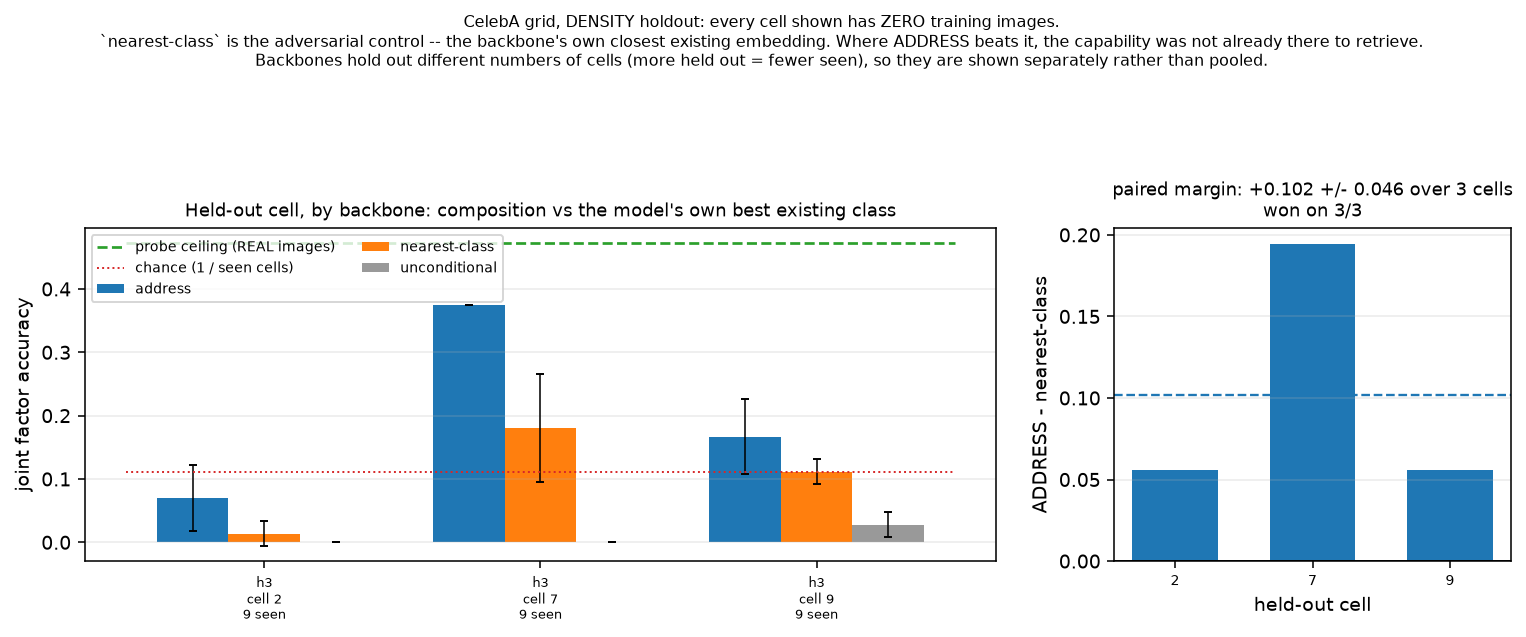
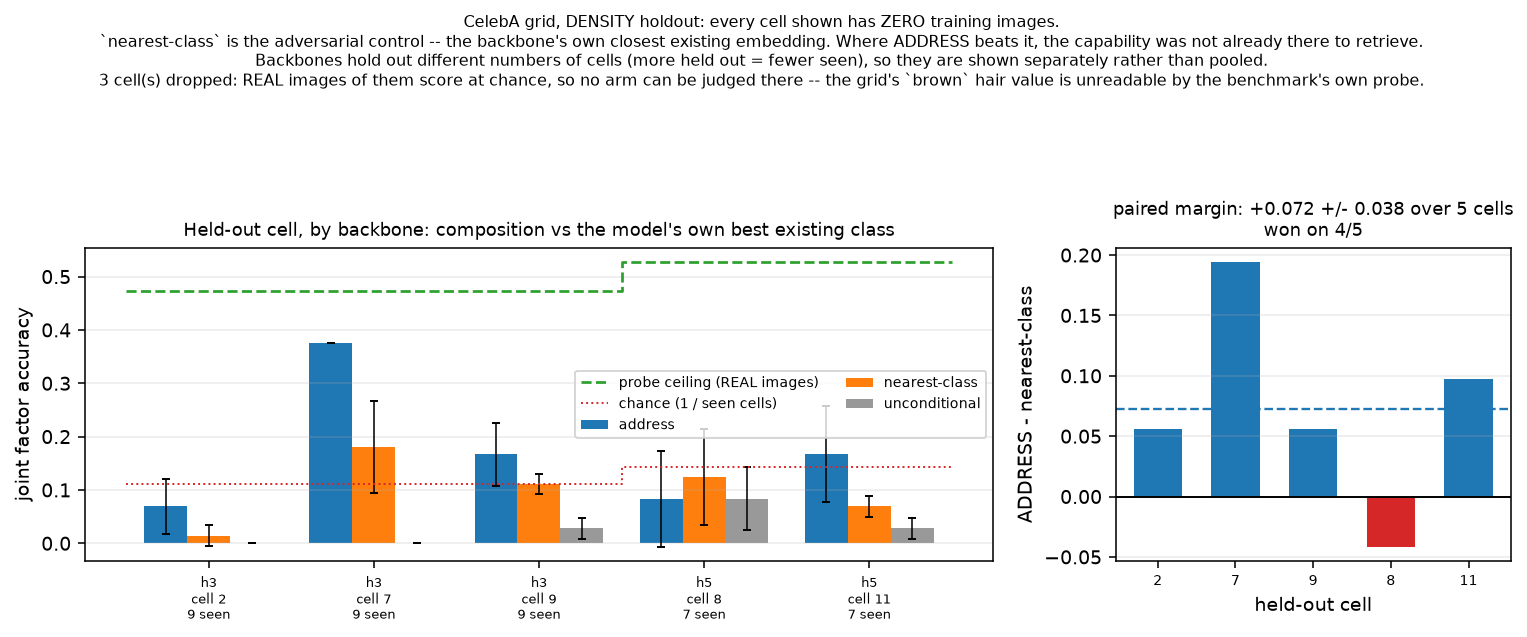
Drop cells the probes cannot read, rather than reporting a tie between blind arms
A cell whose REAL images score at chance is a cell no arm can be judged on. The aggregator
and the margin figure now drop those and say how many, instead of averaging in a
three-way tie at zero that depresses ADDRESS and means nothing either way.

The filter is pre-registered by the instrument rather than chosen: it uses the real-image
arm, not a per-cell look at the results. Its first run picked out _h5 cells 4, 5 and 7 --
exactly the three brown-hair cells and nothing else -- which is the mechanism
`diag_grid_factors` found independently: Brown_Hair scores -0.154 against its base rate,
and `probe_readable` guards per FACTOR so hair's 0.568 overall hides it.

On the 7-seen backbone that drops 8 of 15 cell x seed measurements and leaves ADDRESS
0.047 +/- 0.032 over 4 distinct cells, won on 3/4. The h3 results predate the real arm
entirely and are being re-run, since they cannot be filtered at all.

diff --git a/experiments/aggregate.py b/experiments/aggregate.py
@@ -528,14 +528,34 @@ def agg_n73(runs):
               for _, run in runs for r in run["rows"] if r["arm"] == a]
         out[a]["joint_frac"] = stat(fr)
 
+    # DROP CELLS THE INSTRUMENT CANNOT READ, and say how many.  The grid's hair factor is
+    # {Blond, Brown, other} and Brown is UNREADABLE by the benchmark's own probe (-0.154 against
+    # base rate, `diag_grid_factors`), while `probe_readable` guards per FACTOR and so cannot see
+    # it: hair's overall accuracy of 0.568 clears the bar because two values out of three carry it.
+    # A brown cell is therefore scored by a probe that cannot tell, and every arm reads ~0 there --
+    # which DEPRESSES ADDRESS and flatters nothing, but is noise either way.  The `real` arm is the
+    # pre-registered test: a cell where REAL images of that cell score at chance is a cell no arm
+    # can be judged on.
+    blind = set()
+    for _, run in runs:
+        ch = run.get("chance") or (1.0 / max(run.get("n_seen", 9), 1))
+        for r in run["rows"]:
+            if r["arm"] == "real" and r["joint"] <= ch + 0.02:
+                blind.add((id(run), r["cell"]))
+
     # PAIRED, per cell.  Cells differ enormously in support (518 to 15349 images here), so an
     # unpaired comparison is dominated by which cells a run happened to hold out.
-    per = {}
+    per, n_blind = {}, 0
     for _, run in runs:
         by = {(r["arm"], r["cell"]): r["joint"] for r in run["rows"]}
         for c in sorted({r["cell"] for r in run["rows"]}):
-            if ("address", c) in by and ("nearest-class", c) in by:
-                per.setdefault(c, []).append(by[("address", c)] - by[("nearest-class", c)])
+            if ("address", c) not in by or ("nearest-class", c) not in by:
+                continue
+            if (id(run), c) in blind:
+                n_blind += 1
+                continue
+            per.setdefault(c, []).append(by[("address", c)] - by[("nearest-class", c)])
+    out["n_blind_dropped"] = n_blind
     # REPORT BOTH, and label them, because the two n's mean different things and only one of them
     # is the evidence.  Pooling every (cell, seed) pair gives n=9 from three sampling seeds over the
     # SAME three cells -- that is replication of the sampler, not of the claim, and quoting its
@@ -565,6 +585,9 @@ def agg_n73(runs):
               f"{fmt(out['real_spread'], 2)}")
     print(f"    ADDRESS - nearest-class, paired over {out['n_cells']} DISTINCT cells: "
           f"{fmt(out['margin_vs_retrieval'])}, won on {fmt(out['cells_won'])}")
+    if n_blind:
+        print(f"      ({n_blind} cell x seed measurement(s) DROPPED: real images of that cell "
+              f"score at chance, so no arm can be judged there)")
     print(f"      (over all {out['n_cell_seed_pairs']} cell x seed pairs: "
           f"{fmt(out['margin_pooled_cell_seed'])} -- sampler replication, not more cells)")
     return dict(table=out, n_seeds=len(runs))

diff --git a/experiments/make_celeba_grid_margin.py b/experiments/make_celeba_grid_margin.py
@@ -61,13 +61,21 @@ def main():
         return 0
 
     # (tag, cell) -> per-arm mean over sampling seeds, and the per-cell paired margin
-    cells, marg = [], []
+    cells, marg, blind = [], [], []
     for tag in sorted(runs):
         rs = runs[tag]
         for c in sorted({r["cell"] for run in rs for r in run["rows"]}):
             vals = {a: [r["joint"] for run in rs for r in run["rows"]
-                        if r["arm"] == a and r["cell"] == c] for a in ARMS}
+                        if r["arm"] == a and r["cell"] == c] for a in ARMS + ("real",)}
             if not vals["address"]:
+                continue
+            # DROP A BLIND CELL rather than draw it. Where REAL images of the cell score at chance
+            # the probes cannot read that combination -- the grid's hair factor has an unreadable
+            # `brown` value (diag_grid_factors) -- and every arm reads ~0 there. Plotting it as a
+            # tie between three arms would be reporting the instrument, not the model.
+            ch = 1.0 / (rs[0].get("n_seen") or (12 - len(rs[0]["held"])))
+            if vals["real"] and float(np.mean(vals["real"])) <= ch + 0.02:
+                blind.append((tag, c))
                 continue
             ceil = float(np.mean([run["ceiling"] for run in rs]))
             # Chance is 1/n_seen and n_seen DIFFERS by backbone -- holding out five cells leaves
@@ -124,12 +132,17 @@ def main():
         "`nearest-class` is the adversarial control -- the backbone's own closest existing "
         "embedding. Where ADDRESS beats it, the capability was not already there to retrieve.\n"
         "Backbones hold out different numbers of cells (more held out = fewer seen), so they are "
-        "shown separately rather than pooled.", fontsize=8)
+        "shown separately rather than pooled.\n"
+        + (f"{len(blind)} cell(s) dropped: REAL images of them score at chance, so no arm can be "
+           "judged there -- the grid's `brown` hair value is unreadable by the benchmark's own "
+           "probe." if blind else ""), fontsize=8)
     fig.tight_layout(rect=[0, 0, 1, 0.88])
     os.makedirs(FIG, exist_ok=True)
     o = os.path.join(FIG, "f_celeba_grid_margin.png")
     fig.savefig(o, dpi=140, bbox_inches="tight")
     print(f"[margin] {len(cells)} (backbone, cell) measurements over {len(runs)} backbones")
+    if blind:
+        print(f"[margin] {len(blind)} dropped as unreadable (real images at chance): {blind}")
     print(f"[margin] paired margin {mm:+.3f} +/- {se:.3f}, won on "
           f"{sum(1 for m in marg if m > 0)}/{len(marg)}")
     print(f"[margin] wrote {o}")
